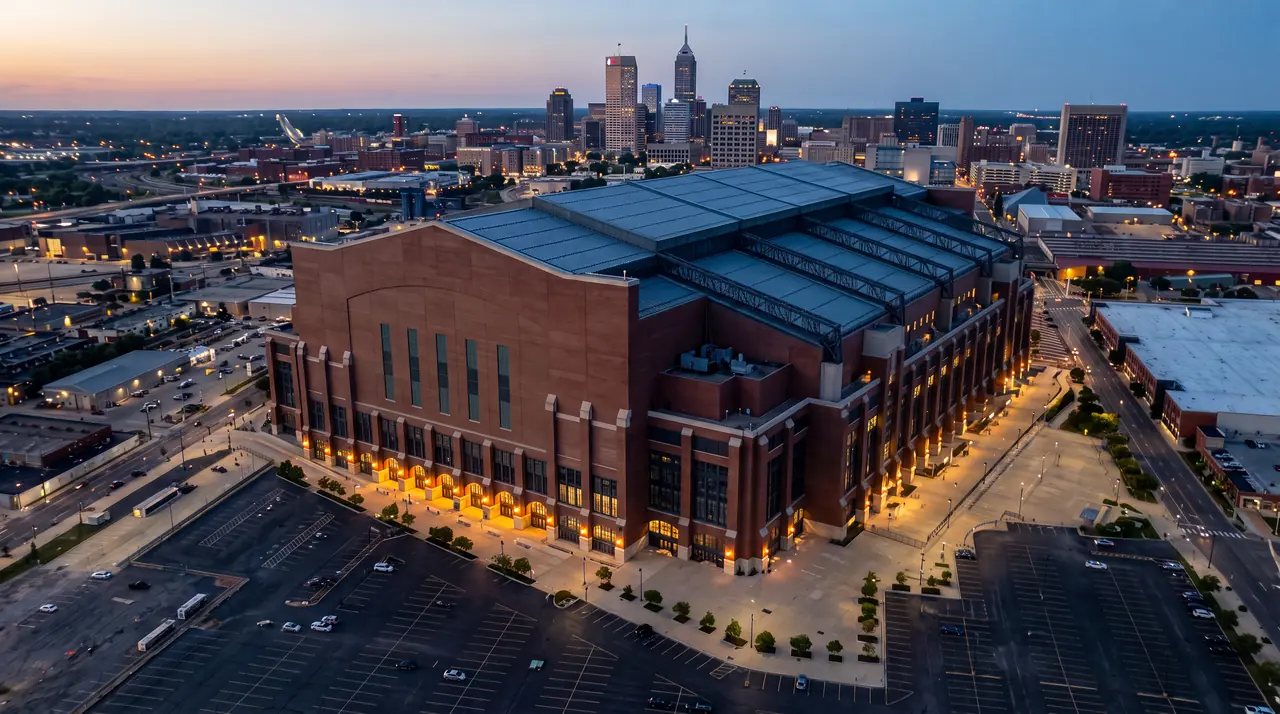
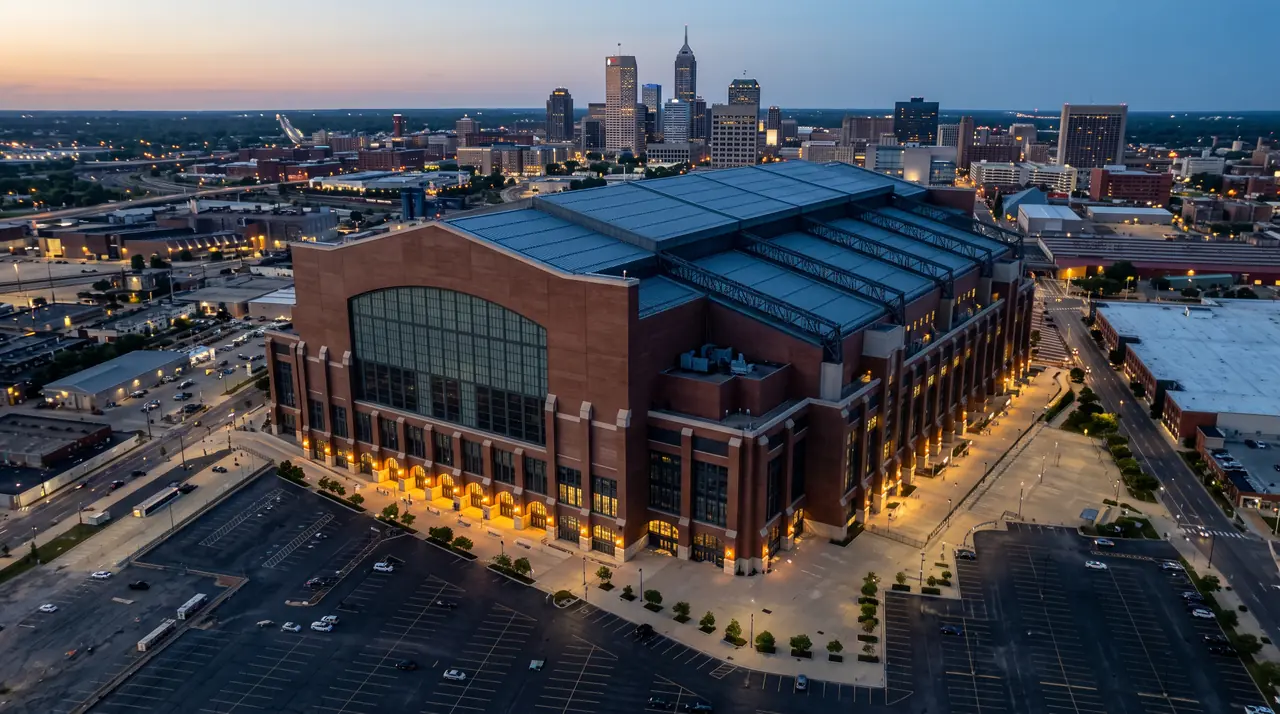
nfl: Lucas Oil Stadium keeps its window wall
Google Earth's 3D view shows the great window on the end seen from the
south, where the edit had bricked it over on a misreading of the
stadium's descriptions. Back to the picture as generated.

Claude-Session: https://claude.ai/code/session_01SuTy6viRSue2xTcU4TVzXA

diff --git a/app/src/main/kotlin/com/phonoodlesramen/actioncenter/nfl/NflCities.kt b/app/src/main/kotlin/com/phonoodlesramen/actioncenter/nfl/NflCities.kt
@@ -27,7 +27,7 @@ object NflCities {
         "CLE" to CityArt("Huntington Bank Field on the Lake Erie shore, downtown Cleveland behind it", focusY = 0.52f),
         "PIT" to CityArt("Acrisure Stadium where the three rivers meet, Pittsburgh", focusX = 0.43f, focusY = 0.52f),
         "HOU" to CityArt("NRG Stadium beside the Astrodome, downtown Houston on the horizon", focusX = 0.42f, focusY = 0.45f),
-        "IND" to CityArt("Lucas Oil Stadium's brick south end, downtown Indianapolis behind it", focusX = 0.51f),
+        "IND" to CityArt("Lucas Oil Stadium and its window wall, downtown Indianapolis behind it", focusX = 0.51f),
         "JAX" to CityArt("EverBank Stadium on the St. Johns River, Jacksonville", focusX = 0.56f, focusY = 0.52f),
         "TEN" to CityArt("Nissan Stadium across the Cumberland from downtown Nashville", focusX = 0.51f, focusY = 0.52f),
         "DEN" to CityArt("Empower Field at Mile High, the Rockies behind it, Denver", focusX = 0.49f, focusY = 0.42f),
